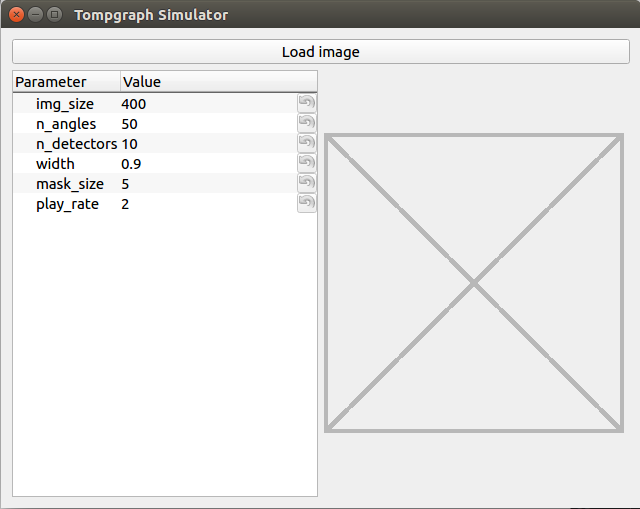
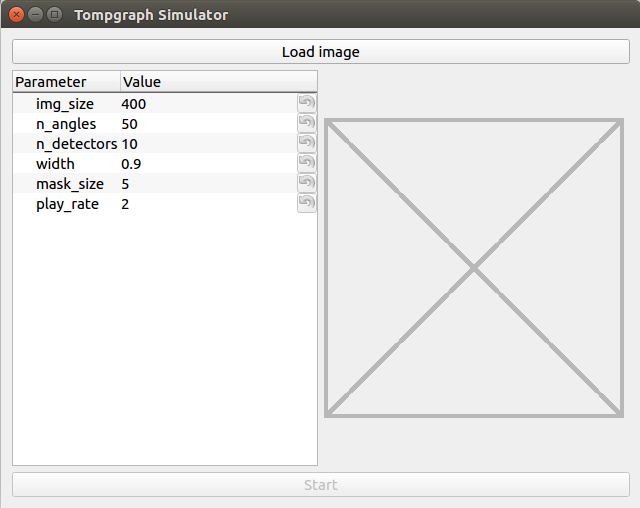
start button with test method

Changed region(s): [[0.5, 0.2067, 1.0, 0.8563], [0.0, 0.9154, 1.0, 1.0], [0.0312, 0.1476, 0.25, 0.4134]]

diff --git a/code/gui.py b/code/gui.py
@@ -28,11 +28,17 @@ class App(QWidget):
 
 		self.loadButton = QPushButton('Load image', self)
 		self.loadButton.setToolTip('Click here to load the image from files')
-		# self.loadButton.resize(100, 100)
 		self.loadButton.move(10, 10)
 		self.loadButton.clicked.connect(self.loadClickAction)
 
 		self.imageLabel = QLabel(self)
+		px = QPixmap("blank.png")
+		px = px.scaled(LOADED_PIC_SIZE, LOADED_PIC_SIZE, Qt.KeepAspectRatio)
+		self.imageLabel.setPixmap(px)
+		self.imageLabel.setToolTip('Here will show loaded picture.')
+		self.imageLabel.move(10, self.loadButton.height() + 20)
+		self.imageLabel.resize(LOADED_PIC_SIZE, LOADED_PIC_SIZE)
+		self.imageLabel.show()
 
 		param_tree = (
 			{'name': 'img_size', 'type': 'int', 'value': 400},
@@ -47,22 +53,20 @@ class App(QWidget):
 		self.param_tree.setParameters(self.parameters, showTop=False)
 		self.param_tree.setSizePolicy(QtGui.QSizePolicy(QtGui.QSizePolicy.Ignored, QtGui.QSizePolicy.Preferred))
 
+		self.startButton = QPushButton('Start', self)
+		self.startButton.setToolTip('Click here to start the simulation')
+		self.startButton.move(10, 10)
+		self.startButton.clicked.connect(self.startClickAction)
+		self.startButton.setEnabled(False)
+
 		self.layout = QtGui.QVBoxLayout(self)
 		self.inputLayout = QtGui.QHBoxLayout()
-
-		px = QPixmap("blank.png")
-		px = px.scaled(LOADED_PIC_SIZE, LOADED_PIC_SIZE, Qt.KeepAspectRatio)
-		self.imageLabel.setPixmap(px)
-		self.imageLabel.setToolTip('Here will show loaded picture.')
-		self.imageLabel.move(10, self.loadButton.height() + 20)
-		self.imageLabel.resize(LOADED_PIC_SIZE, LOADED_PIC_SIZE)
-		self.imageLabel.show()
 
 		self.layout.addWidget(self.loadButton)
 		self.inputLayout.addWidget(self.param_tree)
 		self.inputLayout.addWidget(self.imageLabel)
-
 		self.layout.addLayout(self.inputLayout)
+		self.layout.addWidget(self.startButton)
 
 		self.show()
 
@@ -82,6 +86,12 @@ class App(QWidget):
 		self.imageLabel.move(10, self.loadButton.height()+20)
 		self.imageLabel.resize(LOADED_PIC_SIZE, LOADED_PIC_SIZE)
 		self.imageLabel.show()
+
+		self.startButton.setEnabled(True)
+
+	@pyqtSlot()
+	def startClickAction(self):
+		print('start doing stuff')
 
 
 def startApp():
